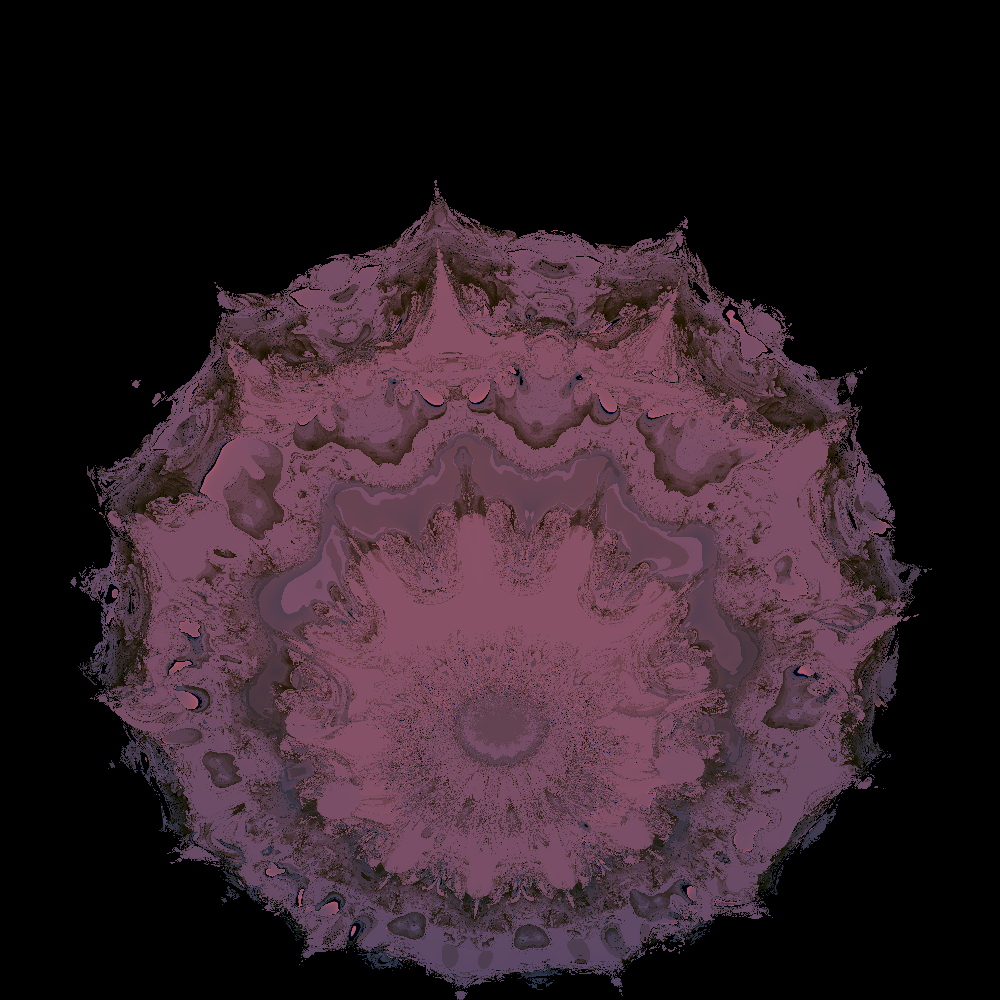
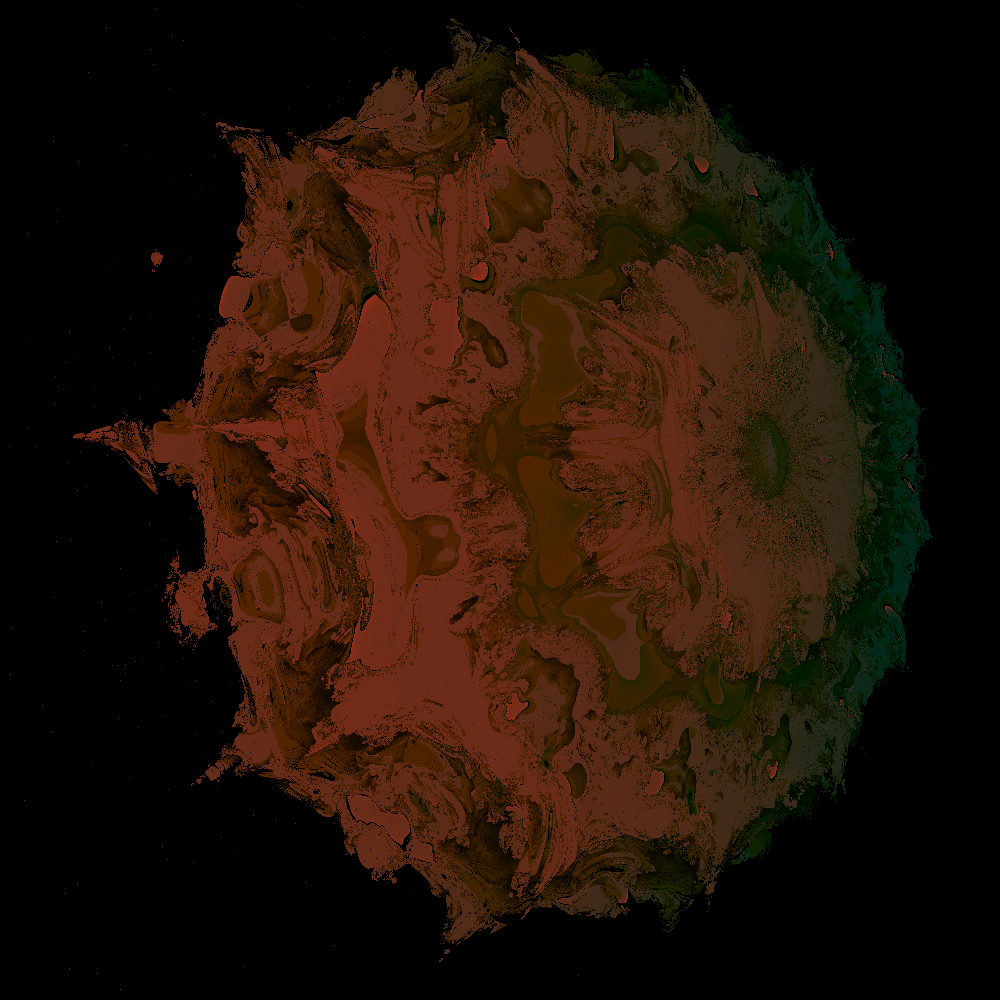
actually. It' a ray marcher

diff --git a/src/main.rs b/src/main.rs
@@ -1,6 +1,8 @@
 //! # a Wish Raytracer
 //! based on https://raytracing.github.io/books/RayTracingInOneWeekend.html
 //!
+//! The mandelbulb is actually ray marched, and i never really finished the raytracing part. So wish raymarcher might be more acurate.
+//!
 //! ## Screenshots
 //! ![](https://raw.githubusercontent.com/unic0rn9k/wowitsaraytracer/master/screenshot.jpeg)
 //! ![](https://raw.githubusercontent.com/unic0rn9k/wowitsaraytracer/master/mandelbulb.jpeg)
@@ -8,7 +10,7 @@
 
 use anyhow::*;
 use geometry::{Intersection, Ray, RaymarchedGeometry, RaytracedGeometry};
-use minifb::{self, Key, Window, WindowOptions};
+use minifb::{self, Key, MouseButton, MouseMode, Window, WindowOptions};
 
 const ASPECT_RATION: f32 = 1.;
 
@@ -120,58 +122,108 @@ fn main() -> Result<()> {
         WIDTH,
         HEIGHT,
         WindowOptions::default(),
-    )
-    .context("minifb was unable to crate window")?;
+    )?;
 
     // Limit to max ~60 fps update rate
     window.limit_update_rate(Some(std::time::Duration::from_micros(16600)));
 
     let viewport_height = 2.;
     let viewport_width = viewport_height * ASPECT_RATION;
-    let focal_length = 2.;
+    let mut focal_length = 2.;
 
-    let origin = vec3![0, 0.5, 3];
-    let horizontal = vec3![viewport_width, 0, 0];
-    let vertical = vec3![0, viewport_height, -1];
+    let mut origin = vec3![0, 0.5, 3];
+    let mut horizontal = vec3![viewport_width, 0, 0];
+    let mut vertical = vec3![0, viewport_height, -1];
 
-    let lower_left_corner = origin - horizontal / 2. - vertical / 2. - vec3![0, 0, focal_length];
+    let mut lower_left_corner =
+        origin - horizontal / 2. - vertical / 2. - vec3![0, 0, focal_length];
     let mut rng = thread_rng();
     let mut image_nr = 0;
 
+    let mut mouse_delta = [[0.; 2]; 2];
+    let mut img = image::RgbImage::new(WIDTH as u32, HEIGHT as u32);
+    let mut buffer_u32 = vec![0; WIDTH * HEIGHT];
+
     while window.is_open() && !window.is_key_down(Key::Q) {
-        let mut img = image::RgbImage::new(WIDTH as u32, HEIGHT as u32);
-        let mut buffer_u32 = vec![0; WIDTH * HEIGHT];
+        for _ in 0..2000 {
+            let x = rng.gen_range(0..WIDTH);
+            let y = rng.gen_range(0..HEIGHT);
 
-        for x in 0..WIDTH {
-            for y in 0..HEIGHT {
-                //let x = rng.gen_range(0..WIDTH);
-                //let y = rng.gen_range(0..HEIGHT);
+            let u = x as f32 / (WIDTH as f32 - 1.);
+            let v = (HEIGHT - y - 1) as f32 / (HEIGHT as f32 - 1.);
 
-                if buffer_u32[x + y * WIDTH] != 0 {
-                    continue;
-                };
+            let relative_dir = lower_left_corner + u * horizontal + v * vertical - origin;
+            let r = Ray::new(origin, relative_dir); //* (vec3![0] - origin));
 
-                let u = x as f32 / (WIDTH as f32 - 1.);
-                let v = (HEIGHT - y - 1) as f32 / (HEIGHT as f32 - 1.);
-
-                let relative_dir = lower_left_corner + u * horizontal + v * vertical - origin;
-                let r = Ray::new(origin, relative_dir); //* (vec3![0] - origin));
-
-                let pixel = r.render(&scene![bulb]);
-                buffer_u32[x + y * WIDTH] = pixel.to_color();
-                let mut tmp = [0; 3];
-                for n in 0..3 {
-                    tmp[n] = (pixel[n] * 255.) as u8
-                }
-                img.put_pixel(x as u32, y as u32, image::Rgb(tmp));
+            let pixel = r.render(&scene![bulb]);
+            buffer_u32[x + y * WIDTH] = pixel.to_color();
+            let mut tmp = [0; 3];
+            for n in 0..3 {
+                tmp[n] = (pixel[n] * 255.) as u8
             }
-            window
-                .update_with_buffer(&buffer_u32, WIDTH, HEIGHT)
-                .unwrap();
+            img.put_pixel(x as u32, y as u32, image::Rgb(tmp));
         }
-        img.save(&format!("images/image_{image_nr}.png"))?;
-        bulb.0 .0 += 2.;
-        image_nr += 1;
+        println!("Rendered chunk");
+        window.update_with_buffer(&buffer_u32, WIDTH, HEIGHT)?;
+
+        if let Some((x, y)) = window.get_mouse_pos(MouseMode::Discard) {
+            if window.get_mouse_down(MouseButton::Left) {
+                mouse_delta[0] = mouse_delta[1];
+                mouse_delta[1][0] = x;
+                mouse_delta[1][1] = y;
+                if mouse_delta[0]
+                    .iter()
+                    .zip(mouse_delta[1].iter())
+                    .map(|(a, b)| (a - b).abs())
+                    .sum::<f32>()
+                    < 5.
+                {
+                    buffer_u32 = vec![0; WIDTH * HEIGHT];
+                    println!("Moving camera...");
+                    horizontal.z += (mouse_delta[1][0] - mouse_delta[0][0]) * 0.5;
+                    vertical.z += (mouse_delta[1][1] - mouse_delta[0][1]) * 0.5;
+                }
+            }
+        }
+
+        if window.is_key_down(Key::Up) {
+            origin.z += 0.1;
+        }
+        if window.is_key_down(Key::Down) {
+            origin.z -= 0.1;
+        }
+        if window.is_key_down(Key::Left) {
+            origin.x += 0.1;
+        }
+        if window.is_key_down(Key::Right) {
+            origin.x -= 0.1;
+        }
+        if window.is_key_down(Key::J) {
+            origin.y -= 0.1;
+        }
+        if window.is_key_down(Key::K) {
+            origin.y += 0.1;
+        }
+        if window.is_key_down(Key::I) {
+            focal_length += 0.1;
+        }
+        if window.is_key_down(Key::O) {
+            focal_length -= 0.1;
+        }
+        lower_left_corner = origin - horizontal / 2. - vertical / 2. - vec3![0, 0, focal_length];
+
+        if window.is_key_pressed(Key::N, minifb::KeyRepeat::No) {
+            buffer_u32 = vec![0; WIDTH * HEIGHT];
+            println!("NEXT");
+            img.save(&format!("images/image_{image_nr}.png"))?;
+            bulb.0 .0 += 2.;
+            image_nr += 1;
+        }
+
+        if window.is_key_down(Key::R) {
+            horizontal = vec3![viewport_width, 0, 0];
+            vertical = vec3![0, viewport_height, -1];
+        }
     }
 
     Ok(())

diff --git a/src/geometry.rs b/src/geometry.rs
@@ -5,9 +5,8 @@ fn spectral_response(n: f32, channel: f32, width: f32) -> f32 {
 }
 
 fn color_from_scaler(n: f32) -> Vec3 {
-    let r = spectral_response(n, 0., 2.);
-    let g = spectral_response(n, 0.1, 3.) * 0.5;
-    let b = spectral_response(n, 0., 3.);
+    let r = spectral_response(n, 0., 1.5);
+    let g = spectral_response(n, 0.1, 4.) * 0.3;
     vec3![r, g, 0]
 }
 
@@ -36,9 +35,9 @@ impl Ray {
             }
         }
         if intersected_objects > 0 {
-            color_from_scaler(dist) * 0.2
+            color_from_scaler(dist) * 0.1
                 + color_from_scaler(dist) * min_normal
-                + vec3![min_normal[0]] * vec3![0, 0, 2] * 0.4
+                + min_normal * vec3![0, 0, 1] * 0.1
         } else {
             vec3![0]
         }
@@ -78,7 +77,7 @@ impl<T: RaymarchedGeometry + Copy> RaytracedGeometry for FakeRaytrace<T> {
             let d = self.0.distance(ray.at(t));
             if d > dist {
                 not_a_normal *= 0.8;
-                highlight *= 0.1;
+                highlight *= 0.01;
             }
             if t > t_max {
                 return None;

diff --git a/README.md b/README.md
@@ -1,6 +1,8 @@
 ## a Wish Raytracer
 based on https://raytracing.github.io/books/RayTracingInOneWeekend.html
 
+The mandelbulb is actually ray marched, and i never really finished the raytracing part. So wish raymarcher might be more acurate.
+
 ### Screenshots
 ![](https://raw.githubusercontent.com/unic0rn9k/wowitsaraytracer/master/screenshot.jpeg)
 ![](https://raw.githubusercontent.com/unic0rn9k/wowitsaraytracer/master/mandelbulb.jpeg)
